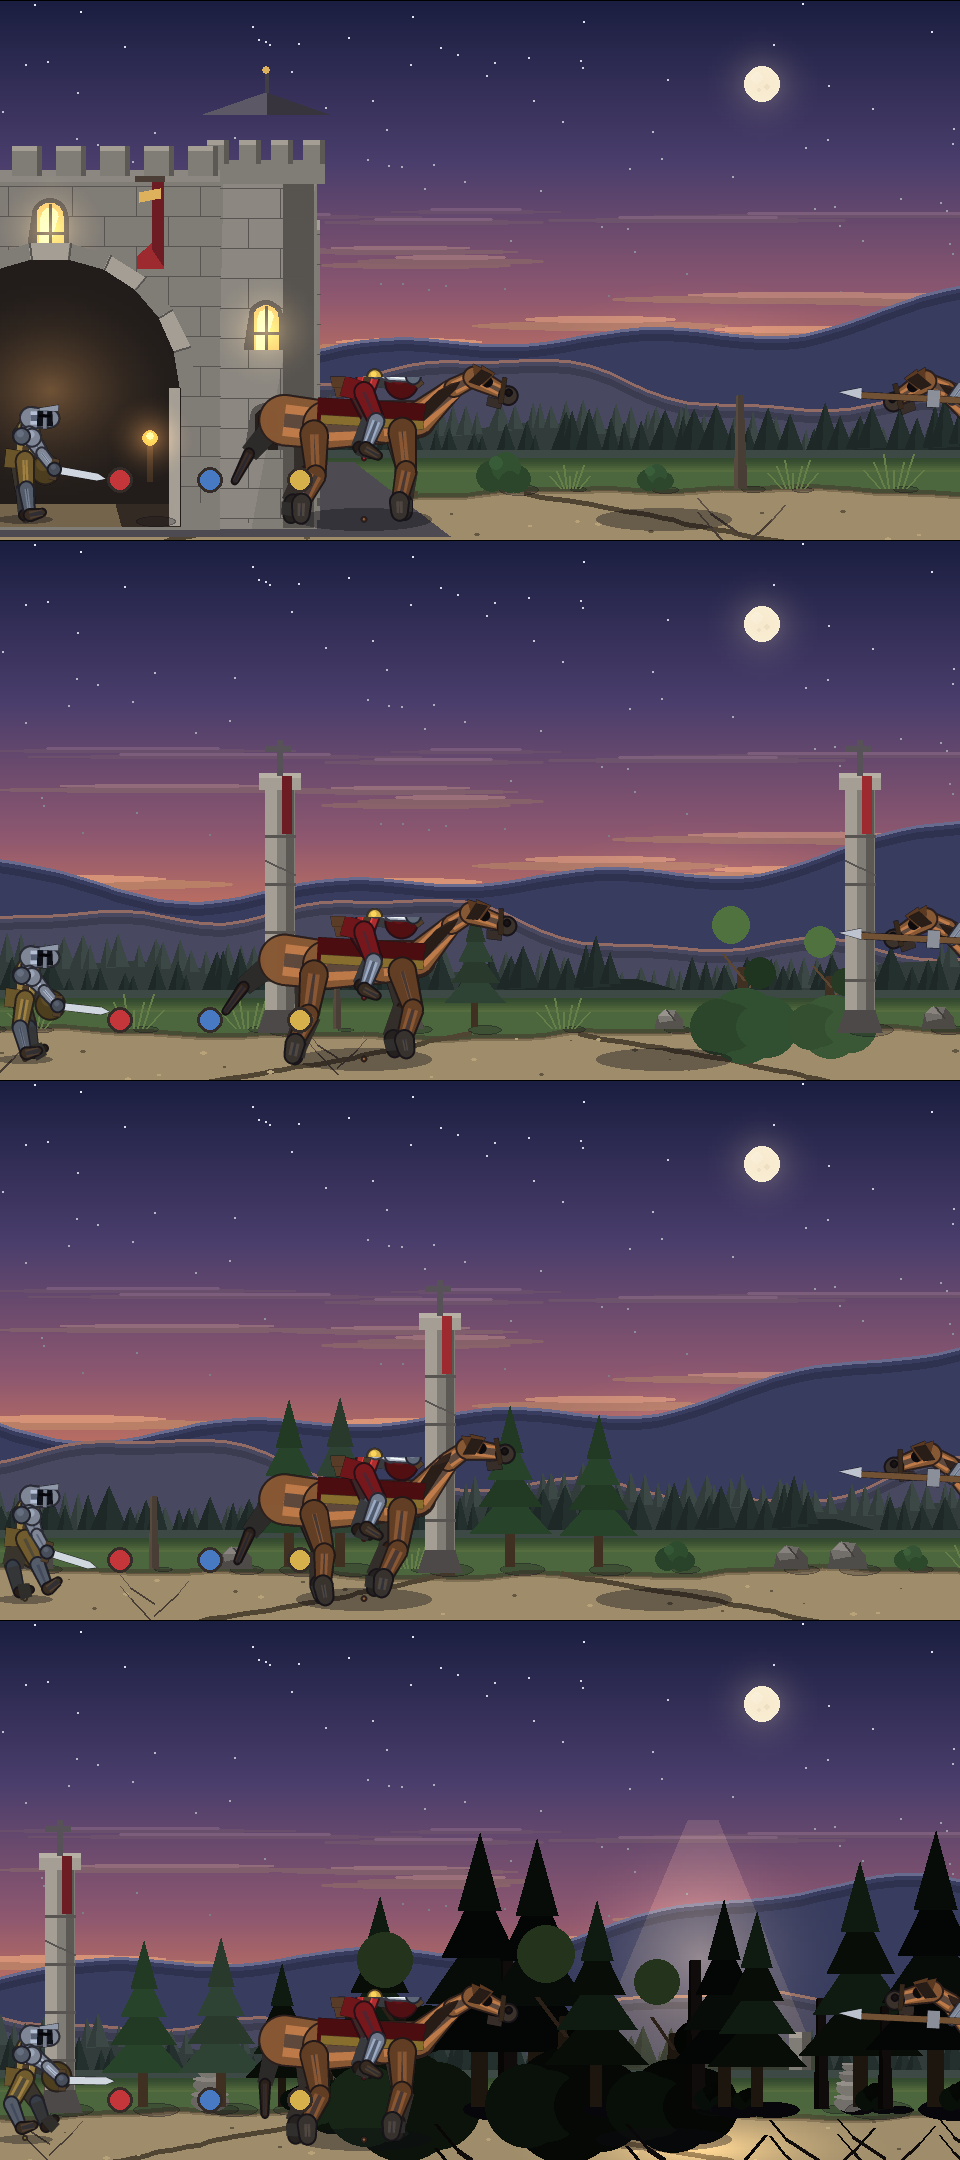
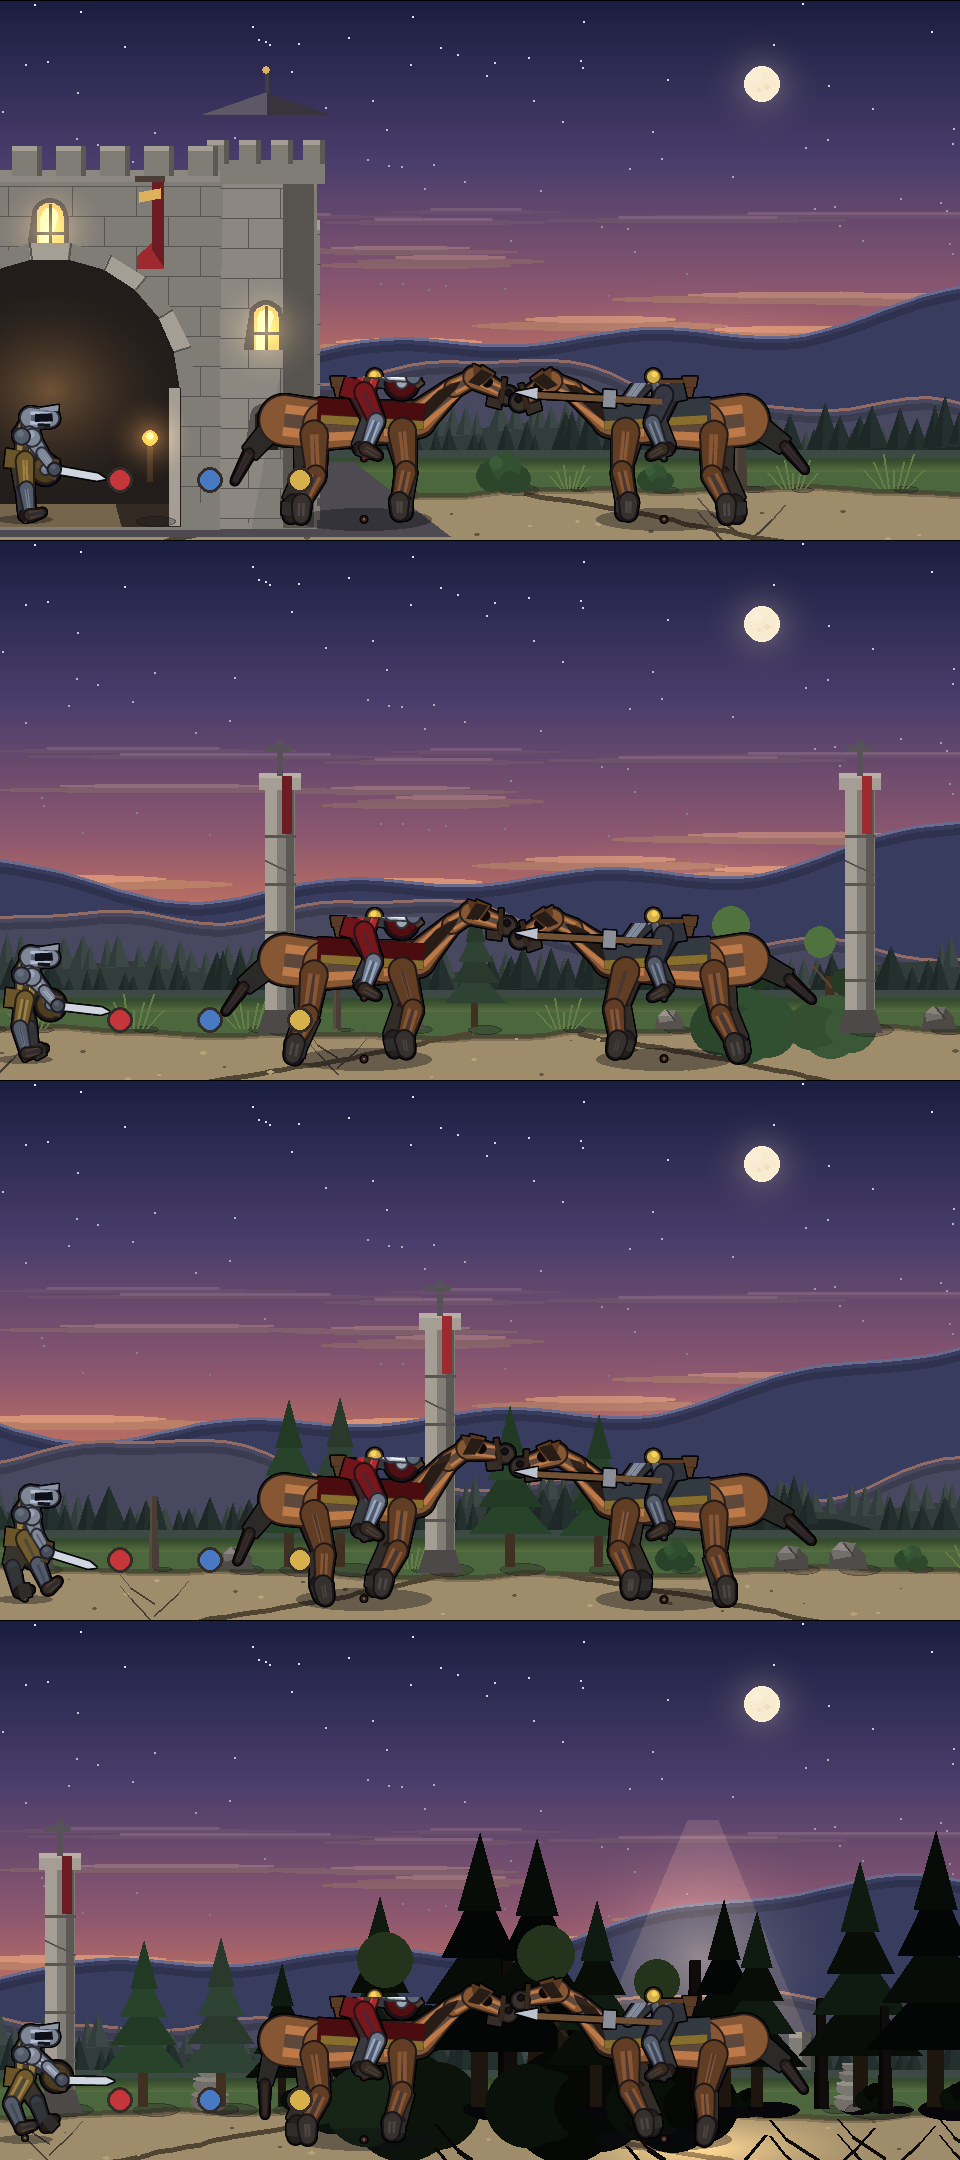
fix(sprites): flipped sprites landed 2*rig.w off; lock the horse to the rider
sprites.blit used a different offset for a flipped sprite (x + rig.w), but
render() mirrors about the image centre, so the feet point stays at x=rig.w
and the offset must be the same either way. Every left-facing actor was
drawn 2*rig.w to the right: turning left split the knight from his horse.
Drop the flip parameter from blit (render owns the mirroring).

Also the player's horse never took the rider's facing, and its x was never
clamped, so it drifted past the level edge the rider cannot cross. Lock
horse.x to the rider and copy the facing.

smoke.py now drives a left turn, asserts the seated knight and horse blit to
the same x, and checks blit() lands the feet on the world x directly.

diff --git a/sprites.py b/sprites.py
@@ -277,7 +277,25 @@ def render(rig, angles=None, root=(0.0, 0.0), dark=1.0, flip=False,
     out = pygame.transform.smoothscale(surf, (rig.w * 2, rig.h * 2))
     if flip:
         out = pygame.transform.flip(out, True, False)
-    return out, tr
+    return _contour(out), tr
+
+
+CONTOUR_R = 1  # px of dark ring added around the whole silhouette
+
+
+def _contour(img):
+    """A single dark ring around the whole figure, so the cast separates from
+    the background. The per-bone outline still separates limbs from each other;
+    this one is only for the outer edge, which per-bone outlines cannot give."""
+    halo = img.copy()
+    halo.fill((10, 9, 15, 255), special_flags=pygame.BLEND_RGBA_MULT)
+    out = pygame.Surface(img.get_size(), pygame.SRCALPHA)
+    r = CONTOUR_R
+    for dx, dy in ((-r, 0), (r, 0), (0, -r), (0, r),
+                   (-r, -r), (r, -r), (-r, r), (r, r)):
+        out.blit(halo, (dx, dy))
+    out.blit(img, (0, 0))
+    return out
 
 
 # bones that belong to the far side of the body, per rig kind
@@ -294,10 +312,11 @@ def render_human(rig, angles, root, dark=1.0, flip=False):
     return render(rig, angles, root, dark, flip, HUMAN_FAR)
 
 
-def blit(surf, img, rig, x, y, flip=False):
-    """Blit with the feet point at world (x, y)."""
-    ox = x - rig.w if not flip else x + rig.w
-    surf.blit(img, (int(ox), int(y - rig.h)))
+def blit(surf, img, rig, x, y):
+    """Blit with the feet point at world (x, y). render() mirrors the image
+    about its own centre, so the feet stay at x=rig.w and the offset is the
+    same whichever way the sprite faces."""
+    surf.blit(img, (int(x - rig.w), int(y - rig.h)))
 
 
 # --------------------------------------------------------------------------
@@ -461,8 +480,13 @@ def _human(scale, steel, steel_d, cloth, cloth_d, weapon, plume, shield,
            *STEEL_ARM_W, steel_d)
     b.limb("fa_f", "arm_f", 1.02, 18, 8, 7, steel_d)
     if shield:
+        # a rim + boss, so it reads as a shield and not as a plain ball
         hx, hy = b.on("fa_f")
-        b.deco("shield", "fa_f", hx, hy, 0.0, "circle", [], cloth_d, 12.0)
+        b.deco("shield_rim", "fa_f", hx, hy, 0.0, "circle", [], (52, 34, 34),
+               12.5)
+        b.deco("shield", "fa_f", hx, hy, 0.0, "circle", [], cloth_d, 11.0)
+        b.deco("boss", "fa_f", hx, hy, 0.0, "circle", [], _tone(steel, 0.9),
+               4.0)
     # --- far leg, a step behind ---
     b.link("thigh_f", "root", (HIP[0] - 4, HIP[1]), 1.46, 25, *LEG_W, cloth_d)
     b.limb("shin_f", "thigh_f", 1.80, 23, 10, 7, steel_d)
@@ -479,12 +503,12 @@ def _human(scale, steel, steel_d, cloth, cloth_d, weapon, plume, shield,
     # a helm is roughly as wide as it is tall: big enough to read as a head
     b.link("head", "neck", (sx + 1, sy - 11), -0.08, 17, 17, 14, steel)
     hx, hy = b.on("head")
-    b.deco("visor", "head", hx, hy, -0.08, "poly",
-           [(-11, -6), (1, -7), (2, 6), (-11, 7)], (18, 20, 28))
-    b.deco("nasal", "head", hx, hy, -0.08, "poly",
-           [(-6, -9), (-3, -9), (-3, 9), (-6, 9)], steel)
-    b.deco("eyeslit", "head", hx, hy, -0.08, "poly",
-           [(-10, -3), (0, -3), (0, -1), (-10, -1)], (8, 8, 12))
+    # a light helm with one dark visor band reads instantly as a helmet; a
+    # bright nasal bar over a dark face just reads as a letter.
+    b.deco("visor", "head", hx - 1, hy, -0.08, "poly",
+           [(-12, -3), (2, -4), (3, 2), (-12, 3)], (18, 20, 28))
+    b.deco("breathe", "head", hx - 1, hy + 6, -0.08, "poly",
+           [(-9, -1), (1, -1), (1, 1), (-9, 1)], (26, 28, 36))
     b.deco("brow", "head", hx - 8, hy - 8, -0.08, "poly",
            [(-2, 0), (14, -3), (14, 2), (-2, 2)], _tone(steel, 1.20))
     if crest:

diff --git a/tools/smoke.py b/tools/smoke.py
@@ -1,6 +1,11 @@
-"""Headless smoke test: drives the knight across level 1 and checks the
-invariant that broke silently - every actor must be drawn in SCREEN space,
-so its blit position has to follow the camera.
+"""Headless smoke test: drives the knight across level 1 and checks two
+invariants that used to break silently.
+
+  1. Every actor must be drawn in SCREEN space, so its blit position has to
+     follow the camera.
+  2. The mounted knight sits on his horse, so their blits must share a screen
+     x - in BOTH directions. render() mirrors the sprite about its own centre,
+     so a flipped sprite blitted with a flipped offset split them by 2*rig.w.
 
     python tools/smoke.py
 """
@@ -22,12 +27,28 @@ W_BOUND = 700.0   # the game's own cull keeps draws well inside this
 _real_blit = sprites.blit
 
 
-def _spy_blit(surf, img, rig, x, y, flip=False):
+def _spy_blit(surf, img, rig, x, y):
     BLITS.append(x)
-    return _real_blit(surf, img, rig, x, y, flip)
+    return _real_blit(surf, img, rig, x, y)
 
 
 sprites.blit = _spy_blit
+
+
+def check_blit_places_feet():
+    """blit() must land the sprite's feet (image x = rig.w) exactly on the
+    world x. render() mirrors about the centre, so this cannot depend on the
+    facing - the old flipped branch added rig.w twice and split a rider from
+    his horse by 2*rig.w."""
+    class Rig:
+        w, h = 10, 6
+
+    img = pygame.Surface((20, 12), pygame.SRCALPHA)
+    img.set_at((10, 0), (255, 0, 0, 255))      # the feet point
+    scr = pygame.Surface((80, 24), pygame.SRCALPHA)
+    _real_blit(scr, img, Rig, 30, 10)
+    assert scr.get_at((30, 4))[:3] == (255, 0, 0), (
+        "blit() did not land the sprite's feet on the world x")
 
 
 def main():
@@ -45,11 +66,16 @@ def main():
     dt = 1 / 60
     cam = 0.0
     offscreen = 0
+    misaligned = 0
     for step in range(1400):
         if step == 200:
             knight.toggle_mount()        # dismount mid-run
         if step == 400:
             knight.toggle_mount()        # and get back on
+        if step == 700:                  # turn around: flips the sprites
+            keys[pygame.K_d], keys[pygame.K_a] = False, True
+        if step == 900:
+            keys[pygame.K_a], keys[pygame.K_d] = False, True
         if step % 37 == 0:
             knight.start_attack()
         knight.update(dt, keys, foes)
@@ -82,10 +108,21 @@ def main():
             if not (-W_BOUND < bx < game.W + W_BOUND):
                 offscreen += 1
 
+        # knight.draw draws the horse, then the knight: when SEATED (not mid
+        # mount, when the rider is deliberately moving off) they share a world
+        # x and must blit to the same screen x.
+        if (knight.state == game.ST_HORSE and len(BLITS) >= 2
+                and abs(BLITS[0] - BLITS[1]) > 1):
+            misaligned += 1
+
     assert knight.x > 500, "the knight never moved (x=%r)" % knight.x
     assert offscreen == 0, ("%d actor blits landed off screen: the draws are "
                             "not in screen space" % offscreen)
+    assert misaligned == 0, ("the mounted knight and his horse blitted %d "
+                             "frames at different x (a flipped blit offset)"
+                             % misaligned)
     assert knight.hp > 0, "the knight died during a scripted run"
+    check_blit_places_feet()
     print("smoke ok: knight reached x=%.0f, hp=%d, %d draws all on screen"
           % (knight.x, knight.hp, 1400))
 

diff --git a/game.py b/game.py
@@ -98,8 +98,7 @@ class Actor:
         ang, lift = self.pose()
         img, _ = sprites.render_human(self.rig, ang, (0.0, lift), dark=dark,
                                       flip=self.face < 0)
-        sprites.blit(surf, img, self.rig, self.x - cam_x, self.y,
-                     flip=self.face < 0)
+        sprites.blit(surf, img, self.rig, self.x - cam_x, self.y)
 
 
 class Horse:
@@ -118,8 +117,7 @@ class Horse:
         ang, bob = sprites.horse_pose(self.speed, self.phase, panic=0.25)
         img, _ = sprites.render_horse(self.rig, ang, (0.0, bob), dark=dark,
                                       flip=self.face < 0)
-        sprites.blit(surf, img, self.rig, self.x - cam_x, self.y,
-                     flip=self.face < 0)
+        sprites.blit(surf, img, self.rig, self.x - cam_x, self.y)
 
 
 class Guard(Actor):
@@ -171,8 +169,7 @@ class Guard(Actor):
         ang, lift = self.pose()
         img, _ = sprites.render_human(self.rig, ang, (0.0, lift - 4),
                                       dark=dark, flip=self.face < 0)
-        sprites.blit(surf, img, self.rig, self.tx - cam_x, self.y,
-                     flip=self.face < 0)
+        sprites.blit(surf, img, self.rig, self.tx - cam_x, self.y)
 
     def hurt(self, dmg, from_x):
         self.hp -= dmg
@@ -259,9 +256,13 @@ class Knight(Actor):
         self.x = max(30.0, min(self.x, world.GOAL_X + 120.0))
 
         if self.on_horse:
-            self.horse.x += ax * spd
+            # lock the horse to the (already clamped) rider x: moving it by
+            # ax*spd on its own let it drift past the level edge the rider
+            # cannot cross.
+            self.horse.x = self.x
             self.horse.phase += dt * (0.9 + abs(ax) * spd * 0.30)
             self.horse.speed = abs(ax) * spd
+            self.horse.face = self.face
             self.y, self.vy = GROUND, 0.0
         else:
             if up and self.grounded():
@@ -335,8 +336,7 @@ class Knight(Actor):
         ang, lift = self.pose()
         img, _ = sprites.render_human(self.rig, ang, (0.0, lift),
                                       flip=self.face < 0)
-        sprites.blit(surf, img, self.rig, self.x - cam_x, self.y,
-                     flip=self.face < 0)
+        sprites.blit(surf, img, self.rig, self.x - cam_x, self.y)
         if self.shield > 0:
             bl = 0.55 + 0.45 * math.sin(pygame.time.get_ticks() * 0.012)
             halo = pygame.Surface((90, 90), pygame.SRCALPHA)

diff --git a/tools/frames.py b/tools/frames.py
@@ -70,11 +70,11 @@ def main():
         game.contact_shadow(s, ex - cam, ground, 48 * game.HORSE_S)
         eha, ehb = sprites.horse_pose(3.4, (i * 0.2) % 1.0, panic=0.3)
         img, _ = sprites.render_horse(ehorse, eha, (0.0, ehb), flip=True)
-        sprites.blit(s, img, ehorse, ex - cam, ground, flip=True)
+        sprites.blit(s, img, ehorse, ex - cam, ground)
         era, erl = sprites.rider_pose((i * 0.2) % 1.0, riding=1.0, moving=1.0,
                                       reach=0.8)
         img, _ = sprites.render_human(rider, era, (0.0, erl - game.SEAT), flip=True)
-        sprites.blit(s, img, rider, ex - cam, ground, flip=True)
+        sprites.blit(s, img, rider, ex - cam, ground)
 
         gx = kx - 340
         game.contact_shadow(s, gx - cam, ground, 22 * game.HUMAN_S)

diff --git a/tools/preview.py b/tools/preview.py
@@ -21,8 +21,8 @@ HERE = os.path.dirname(os.path.abspath(__file__))
 OUT = os.path.join(HERE, "preview.png")
 
 
-def blit_rig(sheet, img, rig, x, y, flip=False):
-    sprites.blit(sheet, img, rig, x, y, flip)
+def blit_rig(sheet, img, rig, x, y):
+    sprites.blit(sheet, img, rig, x, y)
 
 
 def sheet_rows():
